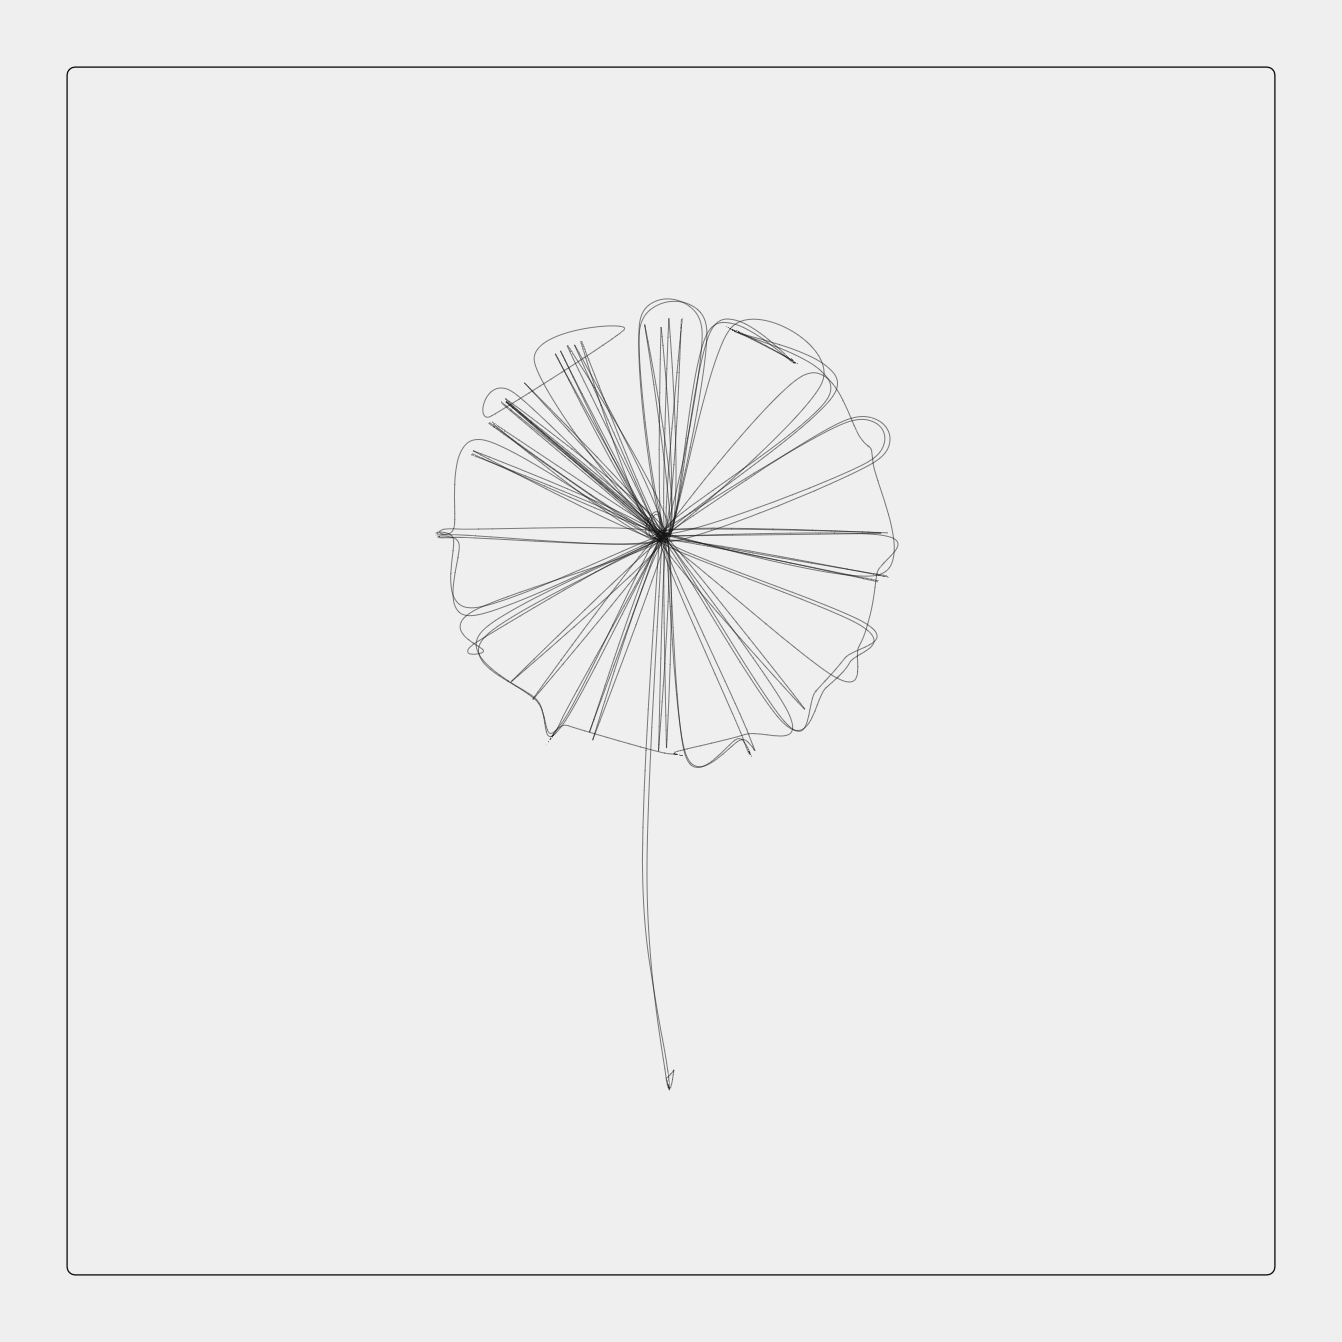
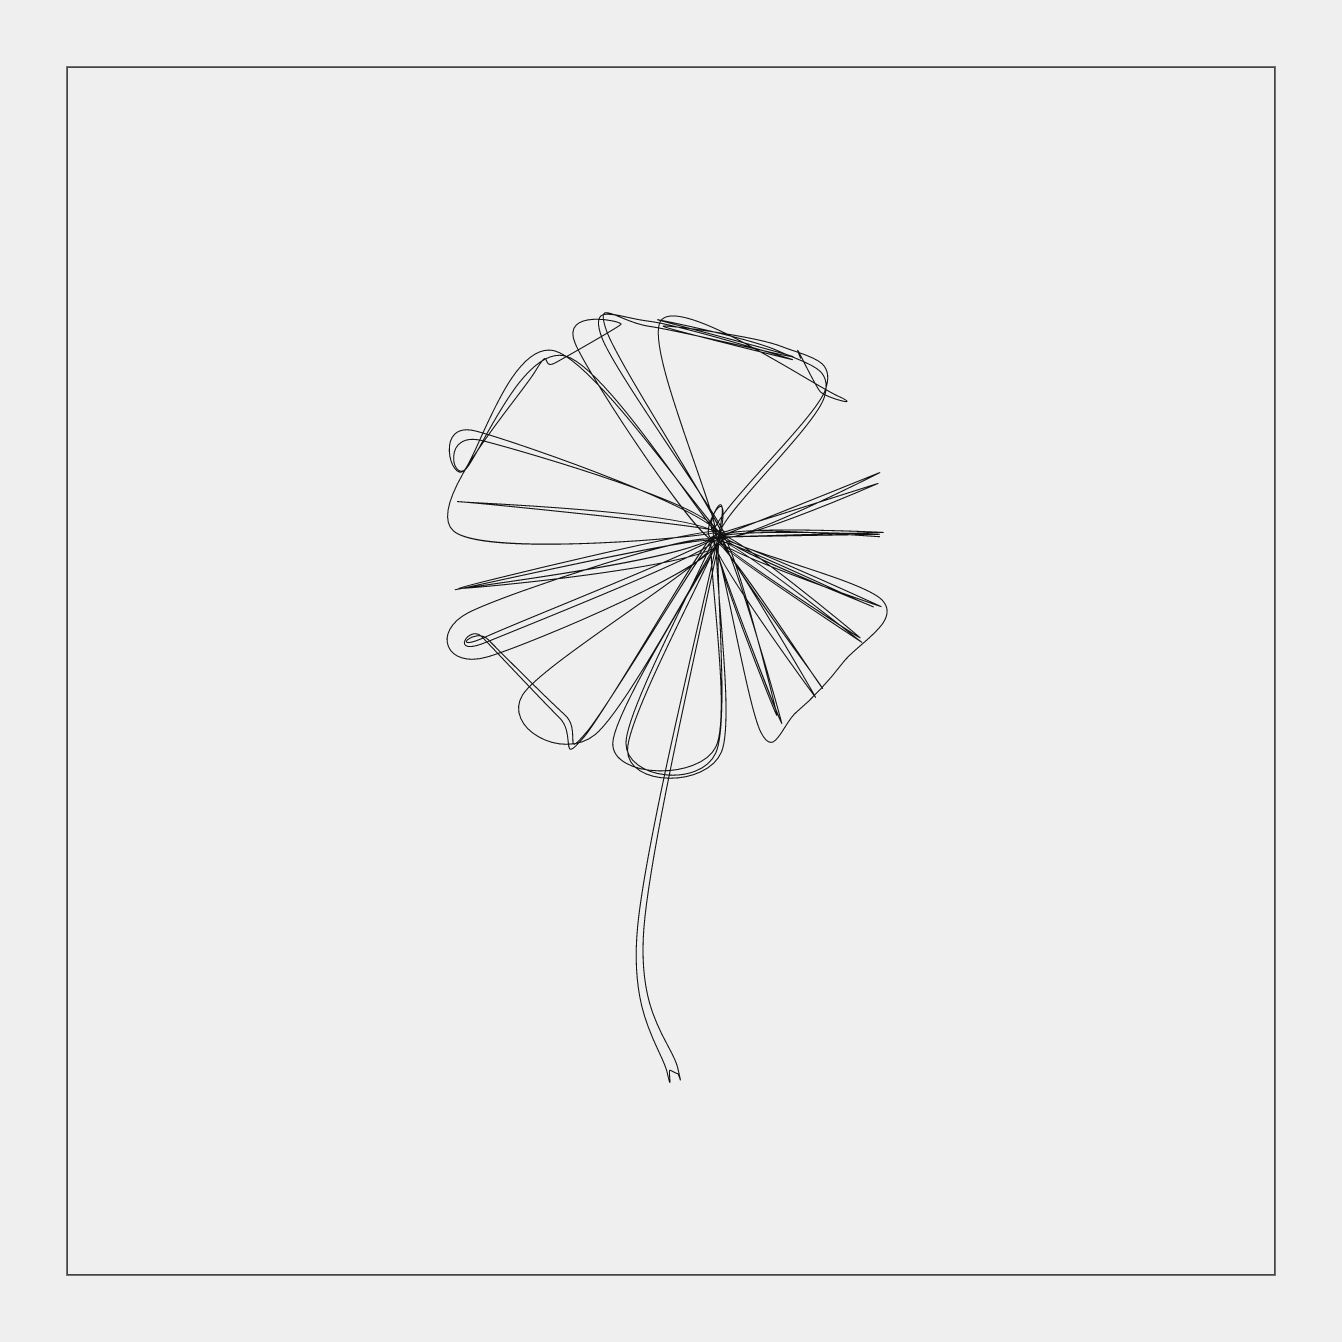
edits to g8

Changed region(s): [[0.3361, 0.2139, 0.6721, 0.5805], [0.4583, 0.611, 0.4888, 0.7638], [0.4888, 0.7638, 0.5194, 0.8249]]

diff --git a/src/pieces/g8.js b/src/pieces/g8.js
@@ -16,7 +16,9 @@ class Squiggle {
     this.draw();
   }
 
-  addVariables() {};
+  addVariables() {
+    this.pointVariation = 10;
+  };
 
   addColors() {
     this.colors = ['#279af1', '#f71735', '#a833b9', utils.penColor];
@@ -44,7 +46,7 @@ class Squiggle {
     beginShape();
     for (let index = 0; index < this.points.length; index++) {
       const element = this.points[index];
-      this.drawPoint(element, 10);    
+      this.drawPoint(element, this.pointVariation);    
     }
     endShape();
   }
@@ -74,6 +76,9 @@ class FlowerSquiggle extends Squiggle {
   }
 
   addVariables() {
+    this.randomnessFactor = random(0, 0.05);
+    this.pointVariation = random(5, 15);
+
     const possibleCenters = [
       {x: 0.5, y:0.5},
       {x: 0.5, y:0.8},
@@ -93,17 +98,28 @@ class FlowerSquiggle extends Squiggle {
   addFlower() {
     const howManyPoints = Math.floor(random(15, 40));
 
+    let flowerPoints = [];
+
     for (let index = 0; index < howManyPoints; index++) {
       let x = random(0.9, 1.1) * (index/howManyPoints);
-      this.points.push({
+      flowerPoints.push({
         x: map(cos(x * TWO_PI), -1, 1, 0.1, 0.9), 
         y: map(sin(x * TWO_PI), -1, 1, 0.1, 0.9)
       });
 
       if(random() > 0.6) {
-        this.points.push(this.center)
+        flowerPoints.push(this.center)
       }
     }
+
+    flowerPoints.sort((a, b) => {
+      if(random() < this.randomnessFactor) {
+        return -1;
+      };
+      return 1;
+    })
+
+    this.points = this.points.concat(flowerPoints)
 
   }
 
@@ -116,10 +132,12 @@ class FlowerSquiggle extends Squiggle {
     // console.log(this.points.length);
     this.points = this.points.concat(reversed);
     // console.log(this.points.length);
-    this.addFlower();
+    if(random() > 0.5) {
+      this.addFlower();
+    } else {
+      this.points = this.points.concat(this.points);
+    }
 
-
-    // this.points = this.points.concat(this.points);
   }
   addStem() {
     this.points.push(this.center)
@@ -266,14 +284,15 @@ function reset() {
 function draw() {
   background(utils.paperColor);
   stroke(utils.penColor);
-  strokeWeight(utils.relSize(1));
+  strokeWeight(utils.relSize(2));
   noFill();
+
   translate(0, utils.relSize(-100))
   utils.zoomOut(0.4);
   new FlowerSquiggle();
   utils.zoomOut((1/0.4));
-  // strokeWeight(utils.relSize(10));
-  rect(utils.relSize(50), utils.relSize(150), utils.relSize(900), utils.relSize(900), 4)
+  strokeWeight(utils.relSize(1));
+  rect(utils.relSize(50), utils.relSize(150), utils.relSize(900), utils.relSize(900))
 }
 
 const pieceName = "Single Curve";
